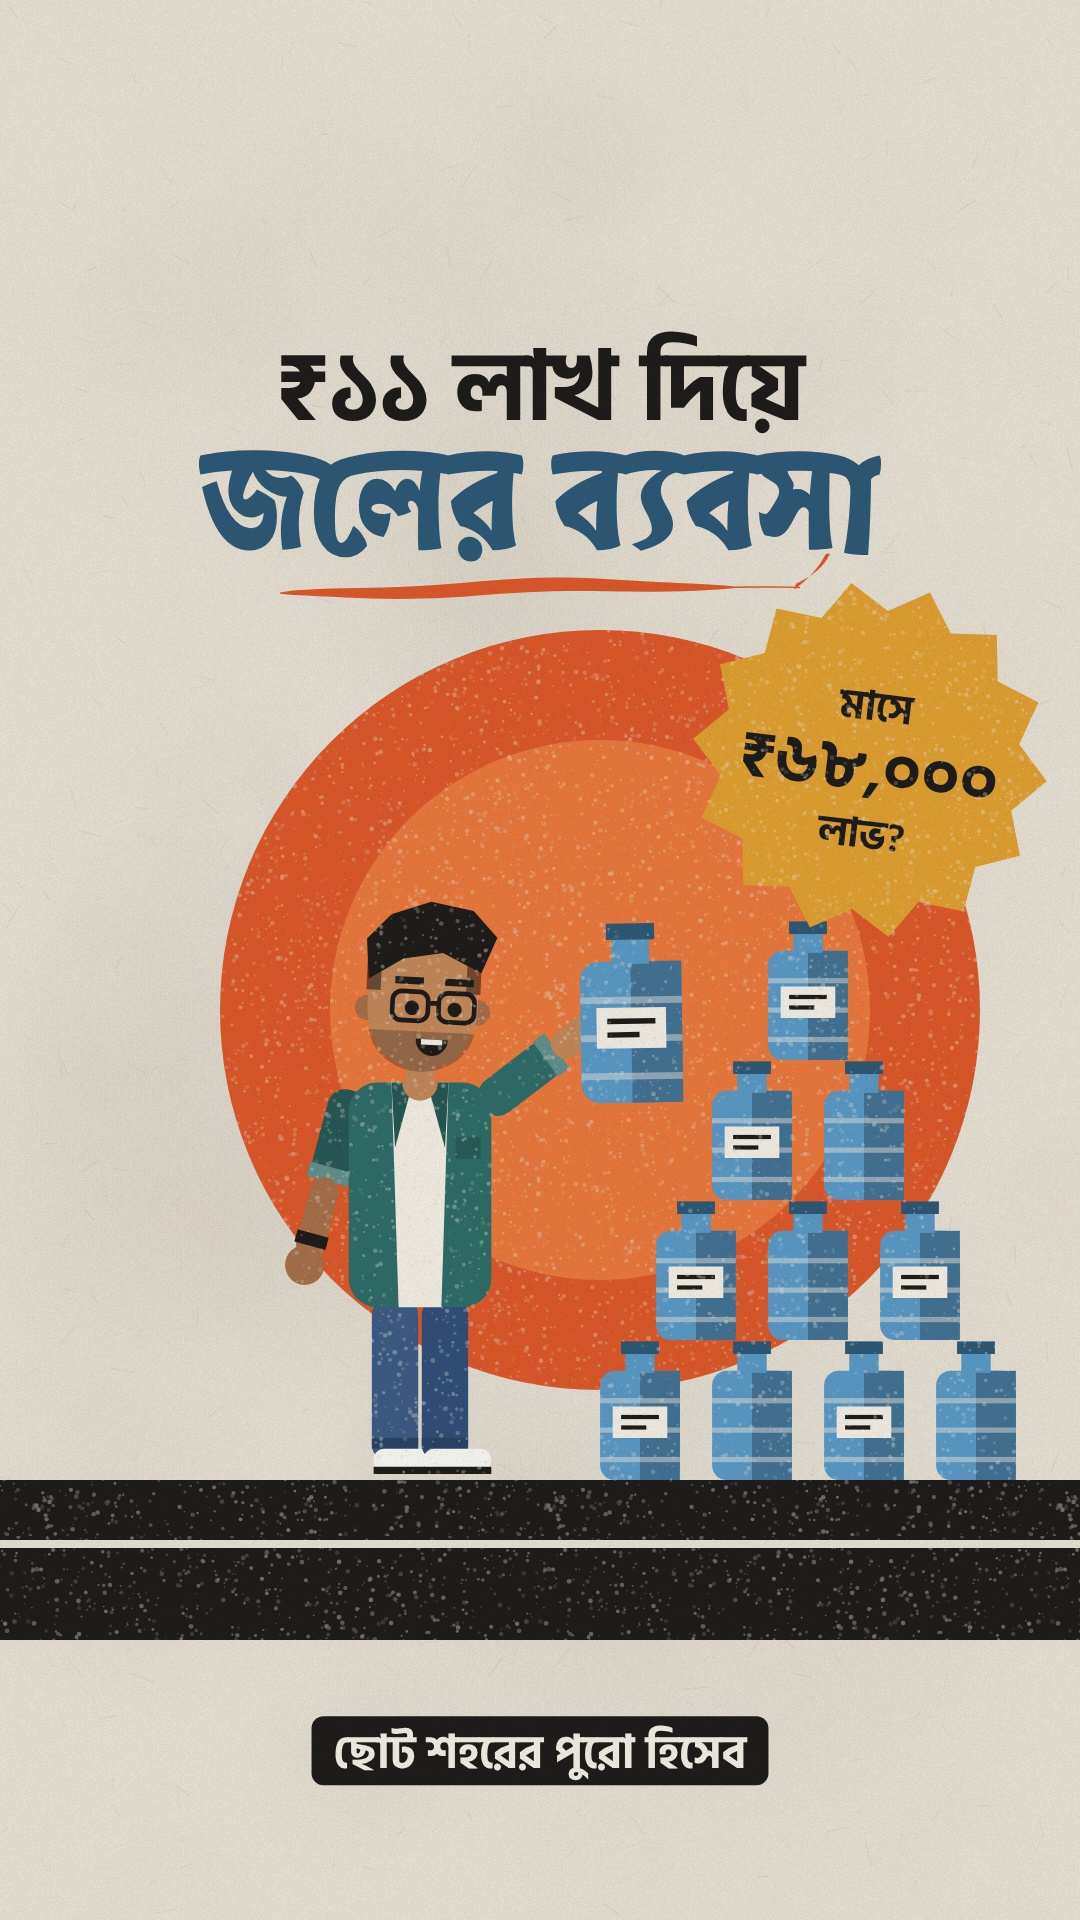
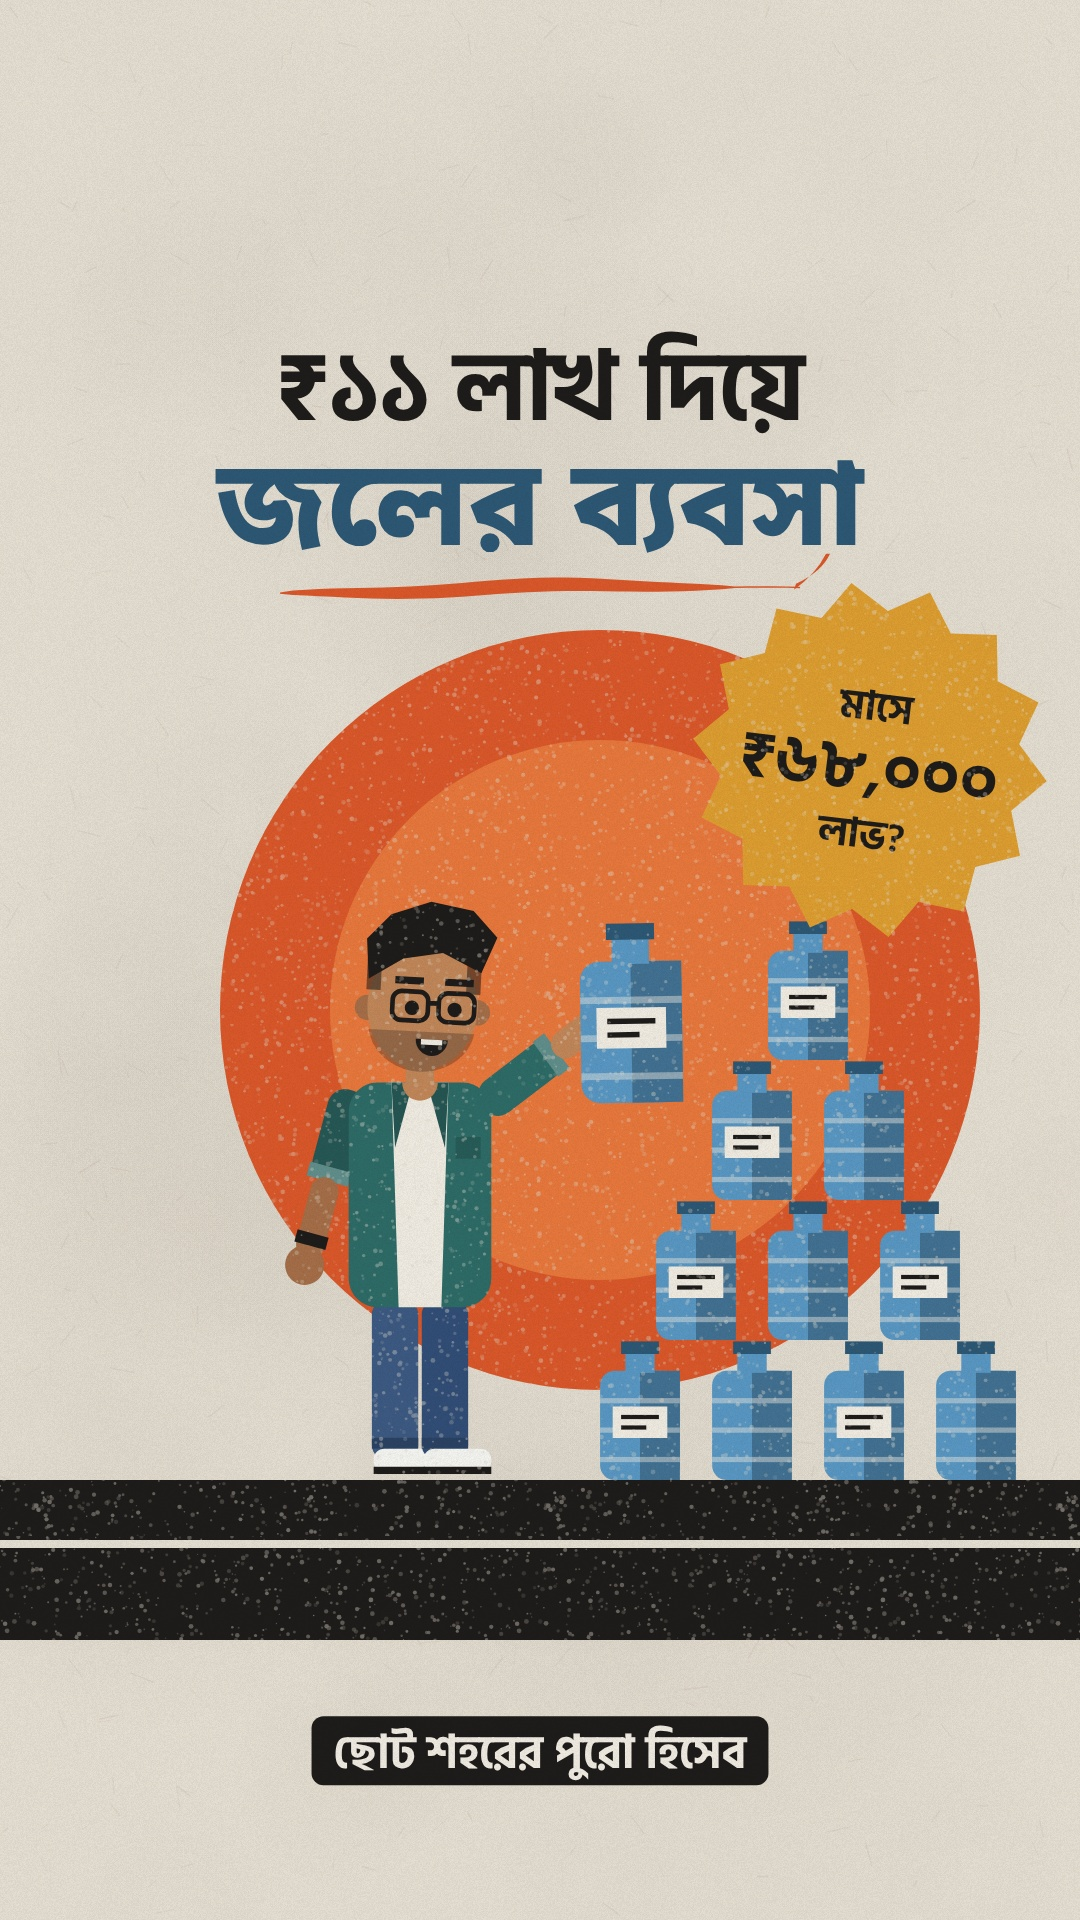
Headline font: Noto Sans Bengali ExtraBold
Claude-Session: https://claude.ai/code/session_01LrRKgZUbAWzSZxm4b8XdCu

Changed region(s): [[0.1833, 0.2188, 0.825, 0.3125]]

diff --git a/water-business/index.html b/water-business/index.html
@@ -1,5 +1,7 @@
 <!doctype html><meta charset="utf-8">
 <style>
+@font-face{font-family:NotoB;font-weight:800;src:url(fonts/noto-sans-bengali-bengali-800-normal.woff2)}
+@font-face{font-family:NotoB;font-weight:800;src:url(fonts/noto-sans-bengali-latin-800-normal.woff2);unicode-range:U+0000-00FF}
 @font-face{font-family:Atma;font-weight:700;src:url(fonts/atma-bengali-700-normal.woff2)}
 @font-face{font-family:Atma;font-weight:700;src:url(fonts/atma-latin-700-normal.woff2);unicode-range:U+0000-00FF}
 @font-face{font-family:Anek;font-weight:700;src:url(fonts/anek-bangla-bengali-700-normal.woff2)}
@@ -26,7 +28,7 @@ import * as film from './film.js';
 const vdir = new URLSearchParams(location.search).get('voice') === 'preview' ? 'voice/preview' : 'voice';
 const [lines, dur] = await Promise.all([fetch('lines.json').then(r => r.json()), fetch(vdir + '/dur.json').then(r => r.json())]);
 setup(lines, dur);
-await Promise.all(['700 88px Atma', '700 52px Anek', '88px Galada', '600 44px Baloo', '700 52px Baloo', '500 24px Plex', '700 68px Hind', '600 40px Hind', '500 40px Hind'].map(f => document.fonts.load(f, 'বাংলা A ₹')));
+await Promise.all(['800 76px NotoB', '700 88px Atma', '700 52px Anek', '88px Galada', '600 44px Baloo', '700 52px Baloo', '500 24px Plex', '700 68px Hind', '600 40px Hind', '500 40px Hind'].map(f => document.fonts.load(f, 'বাংলা A ₹')));
 const g = document.getElementById('c').getContext('2d');
 window.thumb = async () => { film.thumb(g); return g.canvas.toDataURL('image/jpeg', 0.95); };
 window.frame = async t => { draw(g, t); return g.canvas.toDataURL('image/jpeg', 0.93); };

diff --git a/water-business/film.js b/water-business/film.js
@@ -20,7 +20,7 @@ const C = {
   red: '#C23B2E', green: '#56794A', pink: '#E7B49B', cream: '#F7F2E8', marble: '#DCD4C4', shade: '#B9AE99', rust: '#A5532B',
   terra: '#B0502F', gray: '#8C877E', navy: '#2B3A55', skin: '#C68A5B', skin2: '#A86F48', purple: '#6E4C8F', line: 'rgba(31,29,27,0.38)',
 };
-const F = { mono: (px, w = 500) => `${w} ${px}px Plex`, bn: (px, w = 600) => `${w} ${px}px Hind`, head: px => `700 ${px}px Atma`, cap: (px, w = 700) => `700 ${px}px Anek` };
+const F = { mono: (px, w = 500) => `${w} ${px}px Plex`, bn: (px, w = 600) => `${w} ${px}px Hind`, head: px => `800 ${Math.round(px * 0.86)}px NotoB`, cap: (px, w = 700) => `700 ${px}px Anek` };
 const clamp = (x, a = 0, b = 1) => Math.max(a, Math.min(b, x));
 const lerp = (a, b, u) => a + (b - a) * u;
 const ss = (a, b, x) => { const u = clamp((x - a) / (b - a)); return u * u * (3 - 2 * u); };
